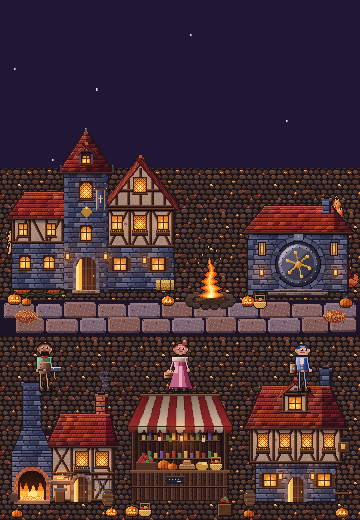
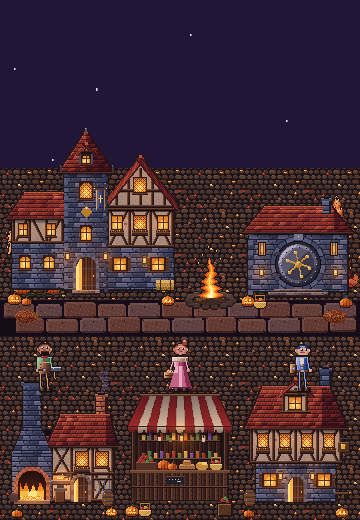
art(town): warm-dim the street, spur and door stones; denser fog; regenerate town goldens

Changed region(s): [[0.0, 0.5538, 1.0, 0.6462]]

diff --git a/lib/ui/game_theme.dart b/lib/ui/game_theme.dart
@@ -25,9 +25,9 @@ abstract final class GameTheme {
   static const Color townLeafMaroon = Color(0xFF92221E);
   static const Color townLeafRust = Color(0xFFDE6A2C);
   static const Color townLeafShade = Color(0x66200E18);
-  static const Color townMist = Color(0x70D2C6EA);
+  static const Color townMist = Color(0x7CD2C6EA);
   /// Ground fog at the foot of the back row, a little cooler than [townMist].
-  static const Color townMistLow = Color(0x66B8ACDC);
+  static const Color townMistLow = Color(0x74B8ACDC);
   static const Color townFireGlow = Color(0xFFFF9630);
   /// Light pool the fire throws on the cobbles.
   static const Color townFirePool = Color(0xFFFFB450);

diff --git a/tool/generate_town_art.py b/tool/generate_town_art.py
@@ -1348,16 +1348,16 @@ def main() -> int:
     assets: list[tuple[str, Image.Image]] = [
         ("backdrop.png", autumn.backdrop()),
         ("ground.png", autumn.ground()),
-        ("path.png", grade(life_art.path())),
-        ("path_b.png", grade(life_art.path_alt())),
-        ("approach.png", grade(life_art.approach())),
+        ("path.png", buildings.ember_dim(grade(life_art.path()))),
+        ("path_b.png", buildings.ember_dim(grade(life_art.path_alt()))),
+        ("approach.png", buildings.ember_dim(grade(life_art.approach()))),
         ("tree_round.png", grade(generate_tree_round())),
         ("tree_tall.png", grade(generate_tree_tall())),
         ("flowers.png", grade(autumn.pumpkin_patch())),
         ("shrub.png", grade(autumn.autumn_bush())),
         ("wild.png", grade(autumn.corn_sheaf())),
         ("herbs.png", grade(autumn.hay_and_basket())),
-        ("worn.png", grade(life_art.worn())),
+        ("worn.png", buildings.ember_dim(grade(life_art.worn()))),
         ("meadow.png", grade(autumn.harvest_pile())),
         ("thicket.png", grade(autumn.lamp_and_bramble())),
         ("scuff.png", grade(autumn.leaf_scatter())),

diff --git a/tool/town_buildings_art.py b/tool/town_buildings_art.py
@@ -976,7 +976,16 @@ def vault(opened: bool) -> "Image":
     return finish(p).image()
 
 
-def campfire() -> "Image":
-    """56×68 campfire with a warm-lit stone ring and a log seat."""
-    base = autumn.campfire()
-    return base
+def ember_dim(img):
+    """Pull pale street stones down to the warm brown of the square, so the
+    street reads as the same cobbles in shade, not a lilac band.
+    Lit pixels (leaves in glow colors) are kept."""
+    src = img.convert("RGBA")
+    out = []
+    for r, g_, b, a in src.getdata():
+        if a == 0 or (r, g_, b) in autumn.EMISSIVE:
+            out.append((r, g_, b, a))
+            continue
+        out.append((int(r * 0.76), int(g_ * 0.64), int(b * 0.58), a))
+    src.putdata(out)
+    return src
